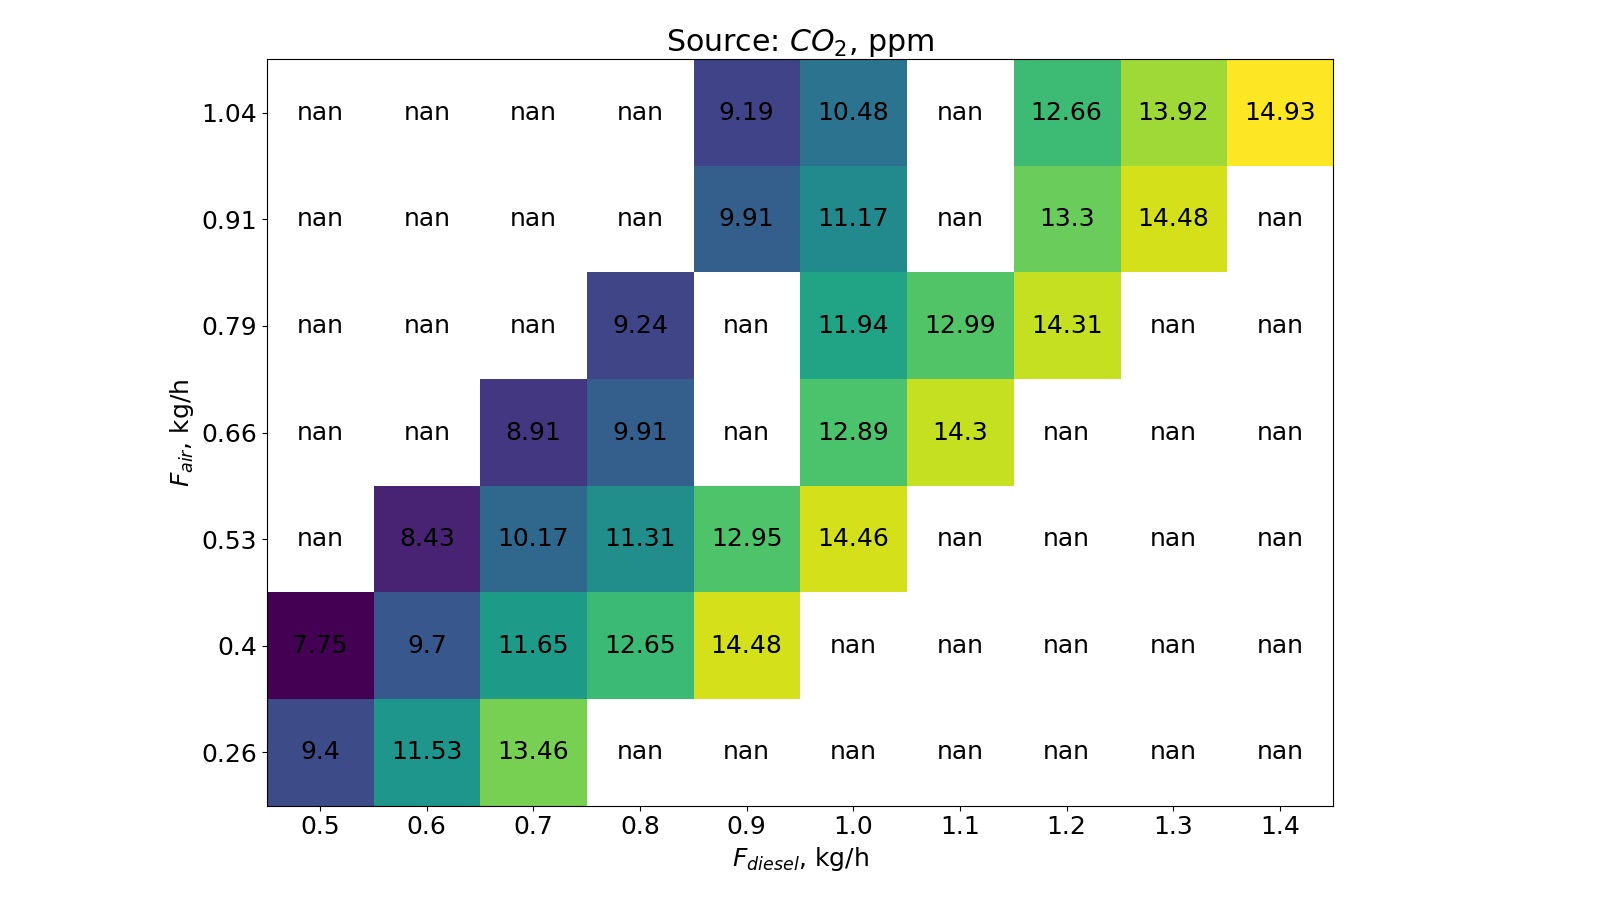
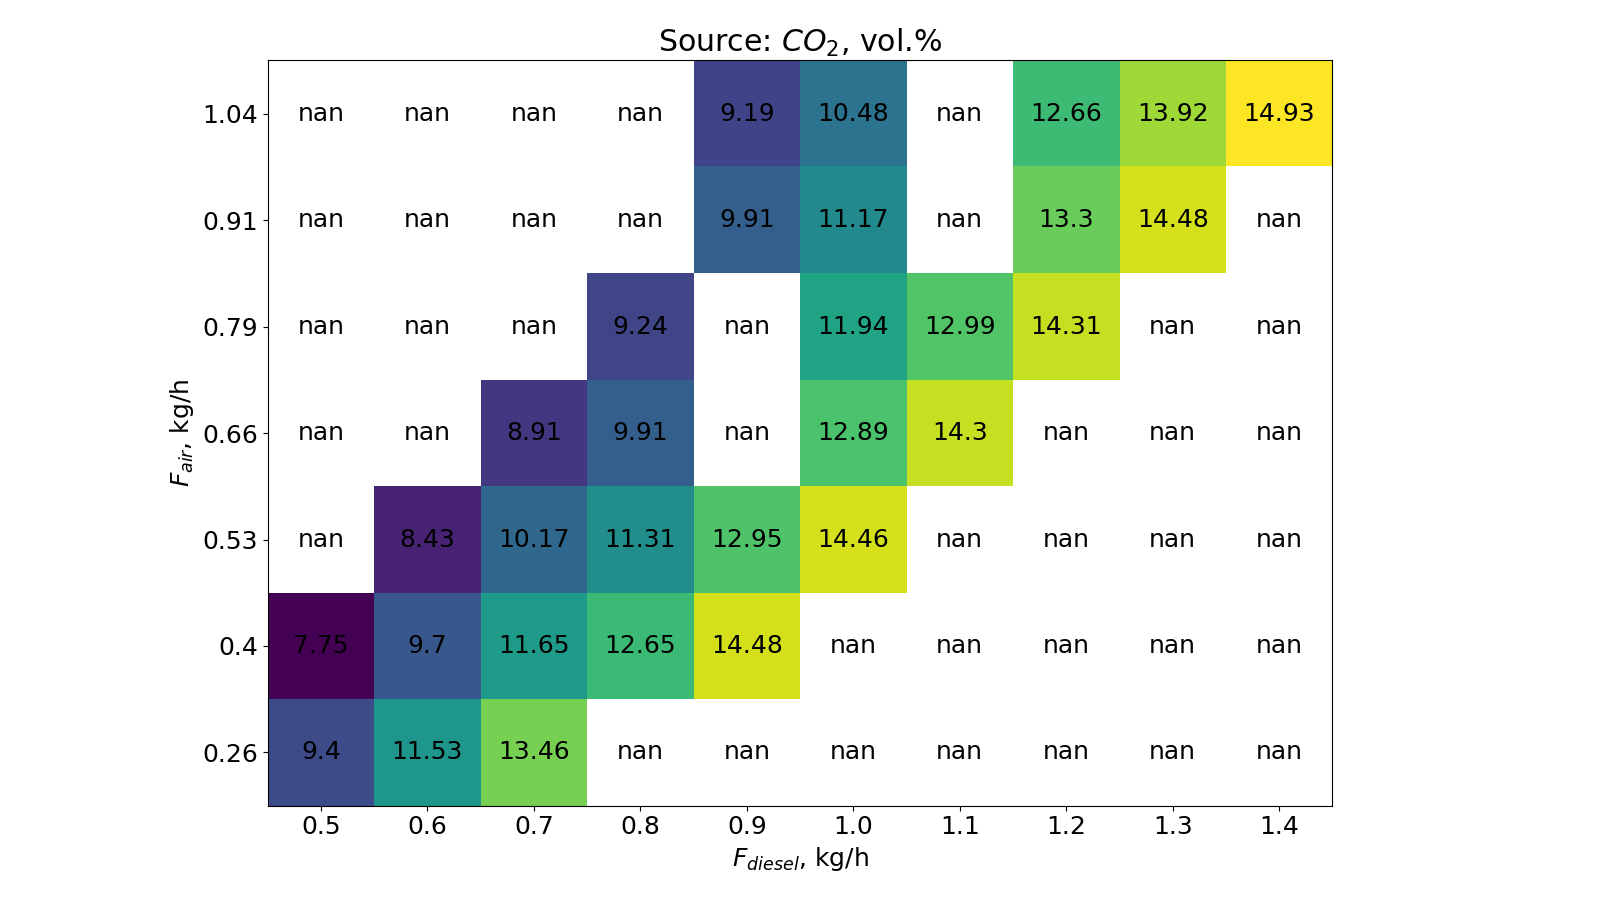
[Map] save_all_source_map добавлено сохранение всех карт в ppm и мг/м3

diff --git a/control/map.py b/control/map.py
@@ -21,6 +21,7 @@ class Map:
         """
         Метод, который сохраняет результаты экспериментов в виде матрицы.
         """
+        # Сохранение карт в ppm
         for experiment_parameters in self.available_variations:
             self.experiment_data.get_experiment_data(*experiment_parameters)
             fuel_axis, additive_axis, component_matrix = self.experiment_data.get_df_in_matrix()
@@ -37,7 +38,7 @@ class Map:
                 plt.title(r"Source: $O_2$, vol.%")
 
             elif self.experiment_data.component_name == 'CO':
-                plt.title(r"Source: $CO, mg/m^3$")
+                plt.title(r"Source: $CO, ppm$")
 
             elif self.experiment_data.component_name == 'NO':
                 plt.title(r"Source: $NO$, ppm")
@@ -46,10 +47,10 @@ class Map:
                 plt.title(r"Source: $NO_2$, ppm")
 
             elif self.experiment_data.component_name == 'NOx':
-                plt.title(r"Source: $NO_X, mg/m^3$")
+                plt.title(r"Source: $NO_X, ppm$")
 
             elif self.experiment_data.component_name == 'CO2':
-                plt.title(r"Source: $CO_2$, ppm")
+                plt.title(r"Source: $CO_2$, vol.%")
 
             elif self.experiment_data.component_name == 'SO2':
                 plt.title(r"Source: $SO_2$, ppm")
@@ -87,6 +88,56 @@ class Map:
             )
             plt.close()
 
+        # Сохранение карт в мг/м3
+        for experiment_parameters in self.available_variations:
+            if experiment_parameters[2] in COMPONENTS_TO_CONVERSATION_FROM_PPM_TO_MG_M3:
+                self.experiment_data.get_experiment_data(*experiment_parameters, convert_to_mg_m3=True)
+                fuel_axis, additive_axis, component_matrix = self.experiment_data.get_df_in_matrix()
+                fuel_axis_str = [str(np.round(value, decimals=2)) for value in fuel_axis]
+                additive_axis_str = [str(np.round(value, decimals=2)) for value in additive_axis[::-1]]
+
+                fig, ax = plt.subplots(figsize=(16, 9))
+                plt.rcParams.update({'font.size': 18})
+
+                ax.matshow(component_matrix)
+
+                if self.experiment_data.component_name == 'CO':
+                    plt.title(r"Source: $CO$, $mg/m^3$")
+                else:
+                    plt.title(r"Source: $NO_X$, $mg/m^3$")
+                    # Подписи осей
+                    plt.xticks(range(len(fuel_axis)), fuel_axis_str)
+                    plt.yticks(range(len(additive_axis)), additive_axis_str)
+                    ax.tick_params(top=False, labeltop=False, bottom=True, labelbottom=True)
+
+                    if self.experiment_data.fuel_name == 'waste_oil':
+                        ax.set_xlabel(r"$F_{\text{waste oil}}$, kg/h")
+
+                    elif self.experiment_data.fuel_name == 'crude_oil':
+                        ax.set_xlabel(r"$F_{\text{crude oil}}$, kg/h")
+
+                    elif self.experiment_data.fuel_name == 'heavy_oil':
+                        ax.set_xlabel(r"$F_{\text{heavy oil}}$, kg/h")
+
+                    else:
+                        ax.set_xlabel(f"$F_{{{self.experiment_data.fuel_name}}}$, kg/h")
+                    ax.set_ylabel(f"$F_{{{self.experiment_data.additive_name}}}$, kg/h")
+
+                    # Нанесение подписей на ячейки матрицы
+                    for row in range(len(additive_axis)):
+                        for column in range(len(fuel_axis)):
+                            value = component_matrix[row, column]
+                            plt.text(column, row, str(np.round(value, decimals=2)), va='center', ha='center')
+
+                    plt.tight_layout()
+
+                    if not os.path.exists(PATH_TO_SOURCE_PLOT):
+                        os.mkdir(PATH_TO_SOURCE_PLOT)
+                    plt.savefig(
+                        PATH_TO_SOURCE_PLOT + f"/{self.experiment_data.fuel_name}_{self.experiment_data.additive_name}_{self.experiment_data.component_name}_mg_m3.png"
+                    )
+                    plt.close()
+
     def save_all_source_map_to_excel(self):
         """
         Метод, который сохраняет результаты экспериментов в виде матрицы в excel.
@@ -106,7 +157,7 @@ class Map:
                 self.experiment_data.df.to_excel(writer, sheet_name=sheet_name)
                 df_component_matrix.to_excel(writer, sheet_name=sheet_name, startcol=6)
 
-            # Сохранение карт в mg/m3
+            # Сохранение карт в мг/м3
             for experiment_parameters in self.available_variations:
                 if experiment_parameters[2] in COMPONENTS_TO_CONVERSATION_FROM_PPM_TO_MG_M3:
                     self.experiment_data.get_experiment_data(*experiment_parameters, convert_to_mg_m3=True)
@@ -187,7 +238,7 @@ class Map:
                 PATH_TO_RBF_PLOT + f"/{self.experiment_data.fuel_name}_{self.experiment_data.additive_name}_{self.experiment_data.component_name}.png"
             )
             plt.close()
-        # Сохранение карт в mg/m3
+        # Сохранение карт в мг/м3
         for experiment_parameters in self.available_variations:
             if experiment_parameters[2] in COMPONENTS_TO_CONVERSATION_FROM_PPM_TO_MG_M3:
                 self.experiment_data.get_experiment_data(*experiment_parameters, convert_to_mg_m3=True)

diff --git a/main.py b/main.py
@@ -7,5 +7,5 @@ if __name__ == '__main__':
     ex = ExperimentData()
     m = Map()
 
-    m.save_all_source_map_to_excel()
+    m.save_all_source_map()
     #print(ex.get_rbf_data())
